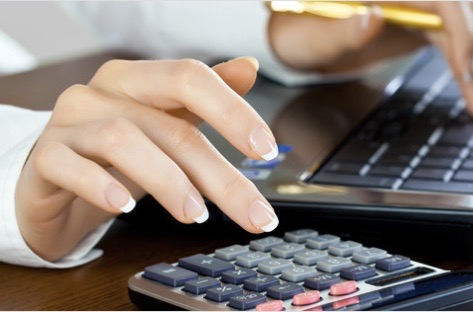
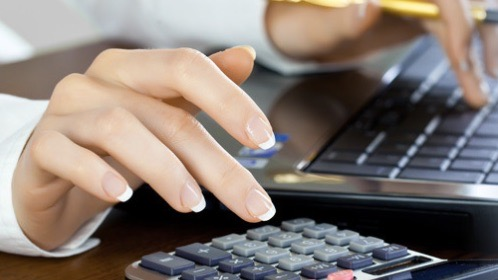
Changelog: • acc.jpg is now in aspect ratio 16:9. • sec.jpg modified to removed some included and also in aspect ratio 16:9. • sersty.css added for service sites. • styles.css modified to fix problems with fonts • accser.html, secser.html, taxser.html background matching problem fixed

diff --git a/templates/index.html b/templates/index.html
@@ -16,6 +16,7 @@
         <a class="w3-bar-item w3-button w3-hide-medium w3-hide-large w3-right w3-hover-white w3-theme-d2" href="javascript:void(0);" onclick="openNav()"><i class="fa fa-bars"></i></a>
         <a href="#" class="w3-bar-item w3-button w3-teal"><img src="{{ url_for('static', filename='./logo.png') }}" width="25px" height="25px" title="Kaizen Logo"></i>Kaizen</a>
         <a href="#i" class="w3-bar-item w3-button w3-hide-small w3-hover-white">About Us</a>
+        <a href="#pro" class="w3-bar-item w3-button w3-hide-small w3-hover-white">Promoters</a>
         <a href="#work" class="w3-bar-item w3-button w3-hide-small w3-hover-white">Our Services</a>
         <a href="#clients" class="w3-bar-item w3-button w3-hide-small w3-hover-white">Important Clients</a>
         <a href="#contact" class="w3-bar-item w3-button w3-hide-small w3-hover-white">Contact Us</a>
@@ -25,7 +26,7 @@
             <a href="https://www.iras.gov.sg/irashome/default.aspx" class="w3-bar-item w3-button">IRAS</a>
             <a href="https://www.acra.gov.sg" class="w3-bar-item w3-button">ACRA</a>
             <a href="https://www.cpf.gov.sg/" class="w3-bar-item w3-button">CPF</a>
-            <a href="https://www.mom.gov.sg" class="w3-bar-item w3-button">Ministry Of Manpower</a>
+            <a href="https://www.mom.gov.sg" class="w3-bar-item w3-button">MOM</a>
         </div>
       </div>
     </div>
@@ -40,7 +41,7 @@
     <a href="https://www.iras.gov.sg/irashome/default.aspx" class="w3-bar-item w3-button" onclick="myFunction()">IRAS</a>
     <a href="https://www.acra.gov.sg" class="w3-bar-item w3-button" onclick="myFunction()">ACRA</a>
     <a href="https://www.cpf.gov.sg/" class="w3-bar-item w3-button" onclick="myFunction()">CPF</a>
-    <a href="https://www.mom.gov.sg" class="w3-bar-item w3-button" onclick="myFunction()">Ministry Of Manpower</a>
+    <a href="https://www.mom.gov.sg" class="w3-bar-item w3-button" onclick="myFunction()">MOM</a>
   </div>
   
 <!-- Modal -->
@@ -86,78 +87,18 @@
     we can be assured of receiving the best possible professional assistance
     No matter how simple or complex the requirement may be, we will provide the best
     solution for services you need.</p>
-<h1></h1>
-<h1></h1>
-<h1></h1>
-<h1></h1>
-<h1></h1>
-<h1></h1>
-<h1></h1>
-<h1></h1>
-<h1></h1>
-<h1></h1>
-<h1></h1>
-<h1></h1>
-<h1></h1>
-<h1></h1>
-<h1></h1>
-<h1></h1>
-<h1></h1>
-<h1></h1>
-<h1></h1>
-<h1></h1>
-<h1></h1>
-<h1></h1>
-<h1></h1>
-<h1></h1>
-<h1></h1>
-<br>
 </div>
 
 
 
-
-
-
-
-
-
-
-
-
-
-
-
-
-
-
-
-
-
-
-
-
-
-
-
-
-
-
-
-
-
-
-
-
-
-
-
-
-
-
+<!-- Pricing Row -->
+<div class="w3-row-padding w3-padding-64 w3-theme-l5" id="pro">
+<h1>Promoters</h1>
+<p>Our intelligent and experienced people from financial background, Ms Priti and Mr Vikas, are our promoters.</p>
+</div>
 
 <!-- Work Row -->
-<div class="w3-row-padding w3-padding-64 w3-theme-l5" id="work">
+<div class="w3-row-padding w3-padding-64 w3-theme-l1" id="work">
 
   <div class="w3-quarter">
   <h2>Our Services</h2>
@@ -166,7 +107,7 @@
   
   <div class="w3-quarter">
   <div class="w3-card w3-white">
-    <a href="{{ url_for('secser') }}"><img src="{{ url_for('static', filename='./sec.png') }}" alt="Error Loading Image......" style="width:100%"></a>
+    <a href="{{ url_for('secser') }}"><img src="{{ url_for('static', filename='./sec.jpg') }}" alt="Error Loading Image......" style="width:100%"></a>
     <div class="w3-container">
     <a href="{{ url_for('secser') }}"><button class="w3-button w3-hover-white"><h3>Secretarial</h3></button></a>
     </div>
@@ -194,14 +135,14 @@
   
   
 <!-- Pricing Row -->
-<div class="w3-row-padding w3-padding-64 w3-theme-l1" id="clients">
+<div class="w3-container w3-padding-64 w3-theme-l5" id="clients">
   <h1>Our Clients</h1>
   <p>Over the past 6 years, we have been able to build a client profile of more than 200 companies covering various sectors:</p>
   <p>• Shipping<br>• FMCG and Wholesale Trading<br>• Investment Holding & Fund Management Companies<br>• HR & IT Companies<br>• Oil & Gas<br>• Retail & Automobile industries</p>
 </div>
 
 <!-- Contact Container -->
-<div class="w3-container w3-padding-64 w3-theme-l5" id="contact">
+<div class="w3-container w3-padding-64 w3-theme-l1" style="margin-top: 0px !important; margin-bottom: 0px !important;" id="contact">
   <h2>Our contact deatils</h2>
   <h3>Kaizen Management Services Pte Ltd</h3>
   <h3>3 Shenton Way <br>#08-09A<br>Shenton House<br>Singapore 068805</h3>
@@ -209,8 +150,7 @@
   <h3>info@kaizengroup.sg</h3>
   <div class="mighty-form" id="mf-32a9b06c-94c5-4e99-9fa5-e557680b1107"></div> 
   <script async src="https://form.mightyforms.com/loader/v1/mightyforms.min.js"></script>
-    
-  </div>
+</div>
 
   </div>
 

diff --git a/templates/secser.html b/templates/secser.html
@@ -5,7 +5,7 @@
 <meta name="viewport" content="width=device-width, initial-scale=1">
 <link rel="stylesheet" href="https://www.w3schools.com/w3css/4/w3.css">
 <link rel="stylesheet" href="https://www.w3schools.com/lib/w3-theme-black.css">
-<link rel="stylesheet" href="{{ url_for('static', filename='./styles.css') }}">
+<link rel="stylesheet" href="{{ url_for('static', filename='./sersty.css') }}">
 <link rel="stylesheet" href="https://cdnjs.cloudflare.com/ajax/libs/font-awesome/4.7.0/css/font-awesome.min.css">
 <body id="myPage">
 
@@ -45,7 +45,7 @@
 
 
 <!--Breadcrumbs-->
-<div class="w3-row-padding w3-padding-64 w3-theme-l1" id="i">
+<div class="w3-row-padding w3-padding-64 w3-theme-l5" id="i">
 <p><a href="{{ url_for('index') }}">Home</a> > <a href="{{ url_for('secser') }}">Secretarial Services</a></p>
 
 <!--Secretarial Services-->
@@ -53,7 +53,7 @@
 <p>Kaizen Management Consultancy specializes in assisting clients to set up the most appropriate
 corporate vehicle for a presence in Singapore.</p>
 <p>• Maintenance of statutory records<br>• Establishment of a Singapore Company (Resident/Non- Resident)<br>• Foreign Corporations- Registration of a Singapore Branch/ Setting up a Singapore Representative office.<br>• Provision of Registered office facilities<br>• Nominee secretary and Professional Nominee director services<br>• Liaison with other professionals on statutory requirements.<br>• Statutory Filings with the Accounting and Corporate Regulatory Authority<br>• De-Registration services including assistance on Winding-Up and Striking Off.<br>• Assisting in preparation of commercial agreements<br>• Assistance in maintaining company ESOP.</p>
-<a href="{{ url_for('index') }}"><button class="w3-button">Back</button></a>
+<a href="{{ url_for('index', _anchor='work') }}"><button class="w3-button">Back</button></a>
 </div>
 <script src="{{ url_for('static', filename='./script.js') }}">
 </script>

diff --git a/templates/taxser.html b/templates/taxser.html
@@ -5,7 +5,7 @@
 <meta name="viewport" content="width=device-width, initial-scale=1">
 <link rel="stylesheet" href="https://www.w3schools.com/w3css/4/w3.css">
 <link rel="stylesheet" href="https://www.w3schools.com/lib/w3-theme-black.css">
-<link rel="stylesheet" href="{{ url_for('static', filename='./styles.css') }}">
+<link rel="stylesheet" href="{{ url_for('static', filename='./sersty.css') }}">
 <link rel="stylesheet" href="https://cdnjs.cloudflare.com/ajax/libs/font-awesome/4.7.0/css/font-awesome.min.css">
 <body id="myPage">
 
@@ -45,7 +45,7 @@
 
 </body>
 <!--Breadcrumbs-->
-<div class="w3-row-padding w3-padding-64 w3-theme-l1" id="i">
+<div class="w3-row-padding w3-padding-64 w3-theme-l5" id="i">
     <p><a href="{{ url_for('index') }}">Home</a> > <a href="{{ url_for('taxser') }}">Taxation Services</a></p>
 
 <!--Content-->
@@ -64,7 +64,7 @@
 
     <p>Besides statutory tax filing, we also assist our valued clients in attending to queries from IRAS, apply tax ruling and resolving tax issues.<br>• Annual Tax filing procedures for Companies incorporated in Singapore<br>• Personal Tax Filing<br>• GST Quarterly Returns<br>• Withholding Tax<br>• Tax Computation and Filing of Estimated Chargeable Income.<br>• Resolving tax disputes with a view to minimizing tax and penalty exposure
     </p>
-<a href="{{ url_for('index') }}"><button class="w3-button">Back</button></a>
+    <a href="{{ url_for('index', _anchor='work') }}"><button class="w3-button">Back</button></a>
 </div>
 <script src="{{ url_for('static', filename='./script.js') }}">
 </script>

diff --git a/templates/accser.html b/templates/accser.html
@@ -5,7 +5,7 @@
 <meta name="viewport" content="width=device-width, initial-scale=1">
 <link rel="stylesheet" href="https://www.w3schools.com/w3css/4/w3.css">
 <link rel="stylesheet" href="https://www.w3schools.com/lib/w3-theme-black.css">
-<link rel="stylesheet" href="{{ url_for('static', filename='./styles.css') }}">
+<link rel="stylesheet" href="{{ url_for('static', filename='./sersty.css') }}">
 <link rel="stylesheet" href="https://cdnjs.cloudflare.com/ajax/libs/font-awesome/4.7.0/css/font-awesome.min.css">
 <body id="myPage">
 
@@ -45,13 +45,13 @@
 
 </body>
 <!--Breadcrumbs-->
-<div class="w3-row-padding w3-padding-64 w3-theme-l1" id="i">
+<div class="w3-row-padding w3-padding-64 w3-theme-l5" id="i">
     <p><a href="{{ url_for('index') }}">Home</a> > <a href="{{ url_for('accser') }}">Accounting Services</a></p>
 
 <!--Content-->
 <h1>Accounting Services</h1>
 <p>• We can help to simplyfy your accounting functions, or help in book-keeping<br>• Our accounting services also include preparation of management accounts and GST submission<br>    ‣ can be prepared on a monthly, quarterly or yearly basis<br>• preparation of unaudited financial statements<br>• Internal Audits<br>• Payroll processment<br>• Cloud-based and traditional accoutning services.</p>
-<a href="{{ url_for('index') }}"><button class="w3-button">Back</button></a>
+<a href="{{ url_for('index', _anchor='work') }}"><button class="w3-button">Back</button></a>
 </div>
 <script src="{{ url_for('static', filename='./script.js') }}">
 </script>

diff --git a/static/sersty.css b/static/sersty.css
@@ -142,3 +142,6 @@ fieldset {
 h1, h2, h3, h4, h5, h6 {
 	font-family: 'SF Pro', -apple-system, BlinkMacSystemFont, 'Segoe UI', Roboto, Oxygen, Ubuntu, Cantarell, 'Open Sans', 'Helvetica Neue', sans-serif;
 }
+html {
+    background-color: #f0f0f0; 
+  }
